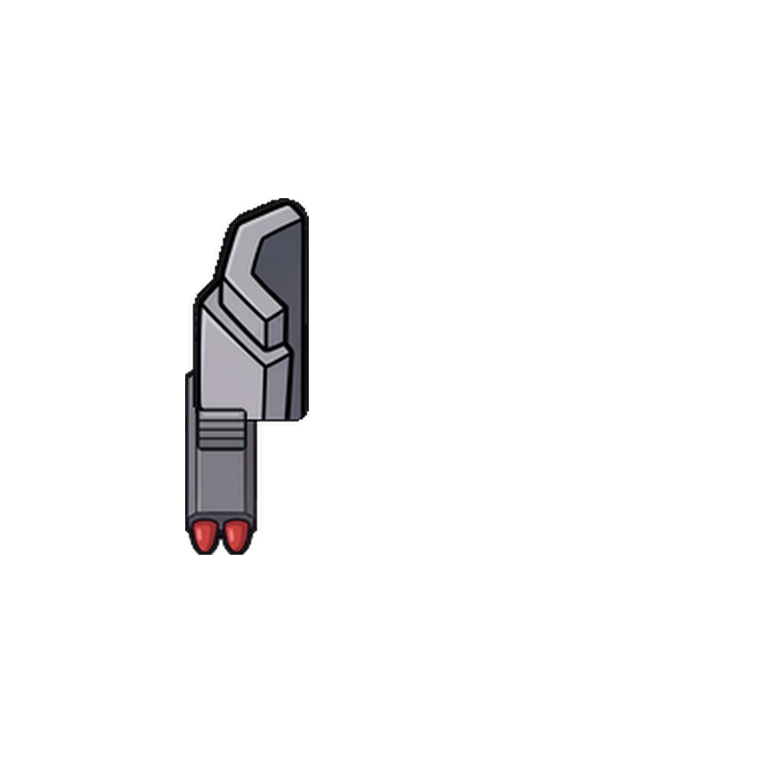
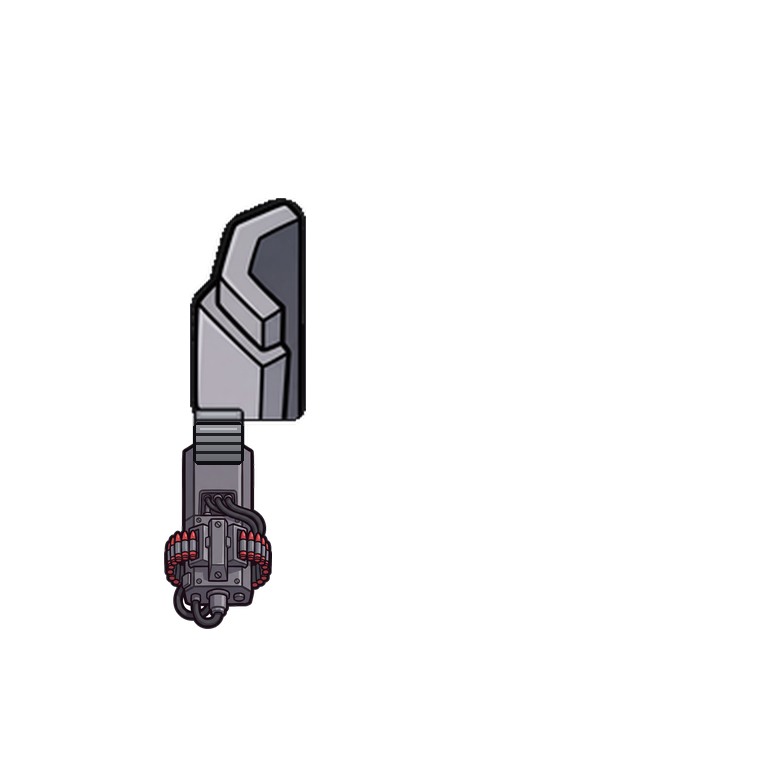
Suit kit: weapon rear views for the back, plates at the front height; side plate over the helmet
Claude-Session: https://claude.ai/code/session_01GM4XsNt8FF8EEgy8oUJDKj

Changed region(s): [[0.1875, 0.25, 0.4062, 0.8438]]

diff --git a/Source/Art/suit_kit.py b/Source/Art/suit_kit.py
@@ -155,19 +155,20 @@ def build(spec, out):
         N.put(pm, cx_to, top=top_to, h=int((y1 - y0) * k), flip=flip); return N
     armR_bb = bbox(pieces[('ArmR', 'south')].tex)
     bw = body_bb[2] - body_bb[0]
+    _P = Layer(); _P.put_assembly(f'{src}/south_plateLfull.png', f'{src}/south_plateLfull_m.png'); plL_bb = bbox(_P.tex)
     # ---------------- east (side view, the owner's pick over the three-quarter view): one near arm, gun aimed forward
     L = Layer(); L.put(part(spec['body']['east']), cx, bottom=body_bb[3], h=body_h); pieces[('Body', 'east')] = L
     eb = bbox(L.tex)
     L = Layer(); L.put(legs_stub(spec['legs']['east']), cx, top=eb[3] - int(body_h * 0.12), h=int(body_h * 0.42)); pieces[('Legs', 'east')] = L
     L = Layer(); L.put(part(spec['helmet']['east']), cx + 4, bottom=helm_bb[3] - int(helm_h * 0.06), h=int(helm_h * 0.92)); pieces[('Helmet', 'east')] = L
-    L = Layer()
-    pb = L.put(part(spec['plate']['east']), cx - 4, top=eb[1] + int(body_h * 0.16), h=int(plate_h * 0.85))
+    L = moved('plateLfull', cx - int(bw * 0.16), plL_bb[1] + int((plL_bb[3] - plL_bb[1]) * 0.22), 0.80)
+    pb = bbox(L.tex)
     wname = spec['weapon_l']
     wt, wm = part(spec['weapons_east'][wname]); wt, wm = wt.rotate(90, expand=True), wm.rotate(90, expand=True)
     ln = int(spec['weapon_h'][wname] * K); h = max(1, round(wt.height * ln / wt.width))
-    elbow_y = pb[3] - 8
-    L.put((wt, wm), pb[0] + (pb[2] - pb[0]) * 0.3 + ln / 2, top=elbow_y - h // 2, w=ln)
-    L.joint(int((pb[0] + pb[2]) / 2), elbow_y - 18)
+    elbow_y = pb[3] - 6
+    L.put((wt, wm), (pb[0] + pb[2]) / 2 + ln * 0.42, top=elbow_y - h // 2, w=ln, behind=True)
+    L.joint(int((pb[0] + pb[2]) / 2), elbow_y - 20)
     pieces[('ArmL', 'east')] = L; pieces[('ArmR', 'east')] = Layer()
     # ---------------- north (back view): the arms swap sides and are mirrored; shoulders cover the body
     L = Layer(); L.put(part(spec['body']['north']), cx, bottom=body_bb[3], h=body_h); pieces[('Body', 'north')] = L
@@ -177,8 +178,18 @@ def build(spec, out):
     # the back rim of the collar is nearer than the head from behind: a shaded armour band over the helmet's base
     L.collar((hb[0] + hb[2]) / 2, hb[3] - int(helm_h * 0.22), int((hb[2] - hb[0]) * 1.04), int(helm_h * 0.42), t=int(helm_h * 0.13))
     pieces[('Helmet', 'north')] = L
-    pieces[('ArmL', 'north')] = moved(f"armLfull_{spec['weapon_l']}", (armR_bb[0] + armR_bb[2]) / 2, armL_bb[1], 1.0, flip=True)
-    pieces[('ArmR', 'north')] = moved(f"armRfull_{spec['weapon_r']}", (armL_bb[0] + armL_bb[2]) / 2, armR_bb[1], 1.0, flip=True)
+    for p, plate, full, wname in (('ArmL', 'plateLfull', 'armLfull', spec['weapon_l']), ('ArmR', 'plateRfull', 'armRfull', spec['weapon_r'])):
+        P = Layer(); P.put_assembly(f'{src}/south_{plate}.png', f'{src}/south_{plate}_m.png')
+        F = Layer(); F.put_assembly(f'{src}/south_{full}_{wname}.png', f'{src}/south_{full}_{wname}_m.png')
+        pa = np.array(P.tex)[..., 3] > 100; fa = np.array(F.tex)[..., 3] > 100
+        wy, wx = np.nonzero(fa & ~ndimage.binary_dilation(pa, iterations=3))
+        mx = lambda x: C - x                                       # mirror across the canvas centre
+        N = Layer(); fx = mx((wx.min() + wx.max()) / 2)
+        x0, y0, x1, y1 = bbox(P.tex); box = (x0, y0, x1 + 1, y1 + 1)
+        N.put(part(spec['weapons_north'][wname]), fx, top=y1 - 30, h=int(spec['weapon_h'][wname] * K), flip=True)
+        N.put((P.tex.crop(box), P.mask.crop(box)), mx((x0 + x1) / 2), top=y0, h=y1 - y0, flip=True)
+        N.joint(int(fx), y1 - 26)
+        pieces[(p, 'north')] = N
     # ---------------- save: helmet stored HEAD px lower (the game lifts it to the head)
     for (p, f), L in pieces.items():
         if p == 'Helmet': L.shift(HEAD)
@@ -186,7 +197,7 @@ def build(spec, out):
     preview(out, spec.get('colors', [(0.56, 0.58, 0.60), (0.58, 0.60, 0.42)]))
 
 
-ORDER = {'south': ['Legs', 'Body', 'ArmL', 'ArmR', 'Helmet'], 'east': ['ArmR', 'Legs', 'Body', 'ArmL', 'Helmet'],
+ORDER = {'south': ['Legs', 'Body', 'ArmL', 'ArmR', 'Helmet'], 'east': ['ArmR', 'Legs', 'Body', 'Helmet', 'ArmL'],
          'north': ['Legs', 'Body', 'ArmL', 'ArmR', 'Helmet']}
 
 
@@ -221,6 +232,7 @@ def bulwark_spec(sp):
         legs=dict(south=f'{sp}/views/legs_south.png', east=f'{sp}/views/legs_east2.png', north=f'{sp}/views/legs_north.png'),
         weapons_south={w: f'{sp}/weap/{w}.png' for w in ws},
         weapons_east={w: f'{sp}/weap_east/{w}.png' for w in ws},
+        weapons_north={w: f'{sp}/weap_north/{w}.png' for w in ws},
         weapon_h={'minigun': 118, 'rockets': 104, 'chainsaw': 124, 'laser': 118, 'flamer': 112, 'hammer': 112,
                   'autocannon': 150, 'grenade': 104, 'arc': 134, 'towershield': 136})
 

diff --git a/docs/STYLE_GUIDE.md b/docs/STYLE_GUIDE.md
@@ -55,8 +55,11 @@ later be its own apparel / module and be damaged and lost on its own.
   `kit_src/south_*.png` incl. an arm layer per weapon, with the hole where the chest nests into the plate).
 - East = side view (owner preferred it to a three-quarter view; the three-quarter paintings are kept in
   `kit/bulwark_src/q/`), guns aimed forward from the elbow so the firing animation matches.
-- North = back painting; the arms are the front-view arm layers mirrored and swapped, drawn over the body so
-  the shoulders are covered; a collar band is drawn over the helmet base.
+- North = back painting; the shoulder plates are the front-view plates mirrored and swapped at the same
+  height (so they cover the shoulders), each weapon is its own rear view (no muzzles), with the ribbed joint;
+  a collar band is drawn over the helmet base.
+- East: the near shoulder plate is drawn OVER the helmet (in game the arm's render node goes above the head
+  when facing east/west).
 - A new suit = a new spec function (like `bulwark_spec`) pointing at its parts. Weapon side views and the
   leg stubs are shared between suits.
 Bulwark sources: `Source/Art/kit/bulwark_src/`; output: `Source/Art/kit/out_bulwark/`
